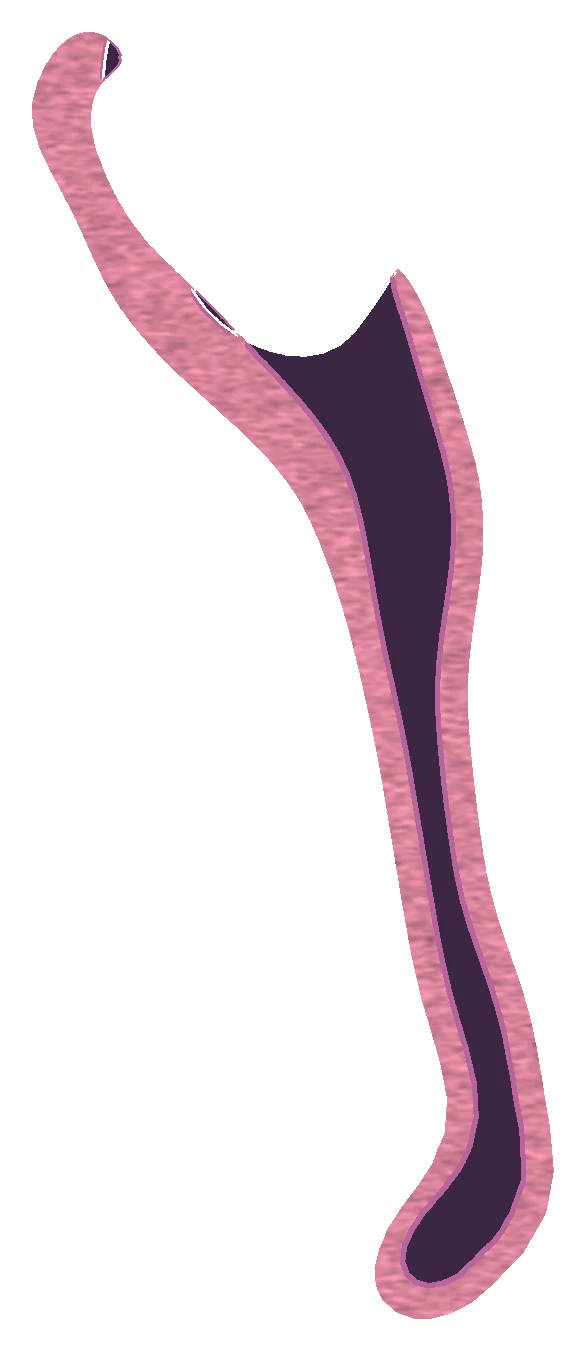
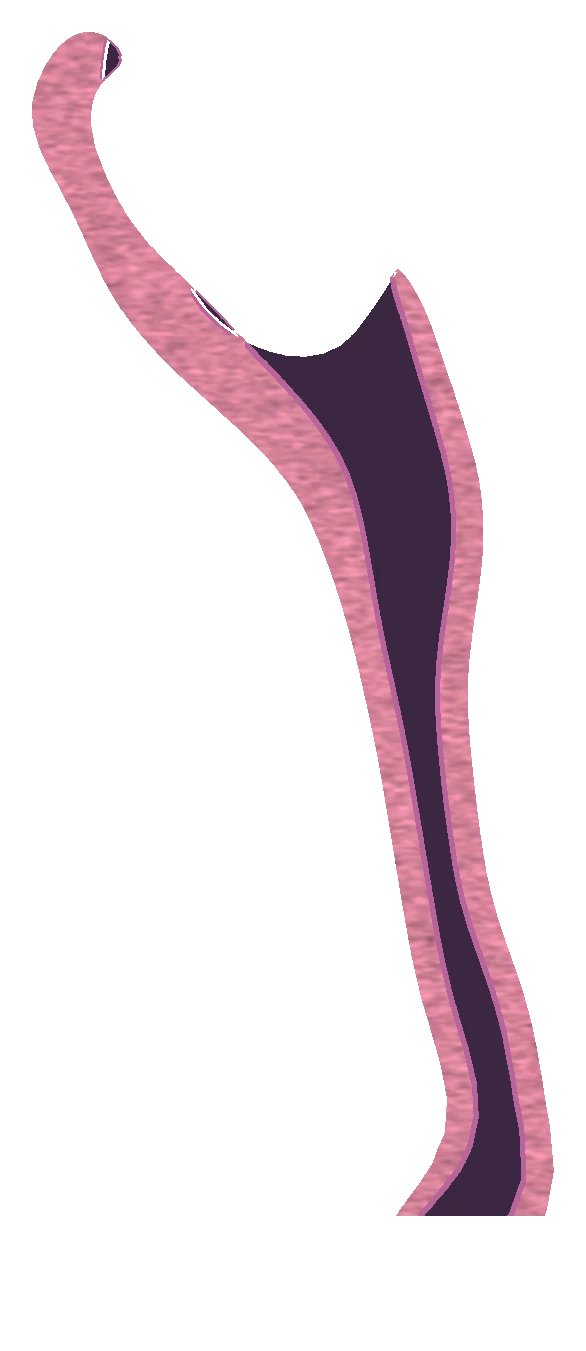
The vagina ends open: cut level 4 mm above the Atlas's closed end, in the 3D and its cut face

Changed region(s): [[0.6143, 0.9016, 0.9215, 0.9948]]

diff --git a/js/cell3d.js b/js/cell3d.js
@@ -26,7 +26,7 @@ import { GLTFLoader } from './vendor/three/examples/jsm/loaders/GLTFLoader.js?v=
 import { OrbitControls } from './vendor/three/examples/jsm/controls/OrbitControls.js?v=0.185.1';
 import { MeshoptDecoder } from './vendor/three/examples/jsm/libs/meshopt_decoder.module.js?v=0.185.1';
 import { mergeVertices } from './vendor/three/examples/jsm/utils/BufferGeometryUtils.js?v=0.185.1';
-import { build as buildTissue } from './tissue3d.js?v=1791095185';
+import { build as buildTissue } from './tissue3d.js?v=1791095888';
 
 export const LEVELS = ['organism', 'system', 'organ', 'tissue', 'cell', 'inside', 'molecules'];
 const GROUP = { organism: 'body', system: 'body', organ: 'body', tissue: 'tissue', cell: 'cell', inside: 'inside', molecules: 'mol' };
@@ -294,9 +294,13 @@ export async function mount(el, opts = {}) {
   let knifeOff = 1;                              // metres beyond the cut; 1 = no cut
   // (always on, parked a metre away when there is no cut: switching it off and on would rebuild the shaders)
   for (const id in bodyMat) if (id !== 'skin') bodyMat[id].clippingPlanes = [knife];
+  // the vagina ends open, level, a little above the Atlas's closed end (build_section.py open_y)
+  const vagEnd = new THREE.Plane();
+  if (SEC.vagina && SEC.vagina.open_y != null && bodyMat.vagina) bodyMat.vagina.clippingPlanes = [knife, vagEnd];
   function setKnife(off) {
     knifeOff = off;
     knife.set(new THREE.Vector3(-1, 0, 0), SEC.x + off).applyMatrix4(F('body'));
+    vagEnd.set(new THREE.Vector3(0, 1, 0), -(SEC.vagina && SEC.vagina.open_y != null ? SEC.vagina.open_y : -9)).applyMatrix4(F('body'));
   }
   // The peel: the knife is put at the cut all at once (with the cut face drawn), and the part on the reader's side
   // is a copy of each organ, clipped the other way, that lifts a little away and fades out. (The knife used to sweep
@@ -311,7 +315,7 @@ export async function mount(el, opts = {}) {
     body.scene.traverse(o => {
       if (!o.isMesh || o.userData.bodyId === 'skin' || !bodyMat[o.userData.bodyId] || o === skinPre || o === skinIn) return;
       const id = o.userData.bodyId;
-      peelMat[id] ||= new THREE.MeshLambertMaterial({ color: bodyMat[id].color, transparent: true, depthWrite: false, clippingPlanes: [knifeOpp] });
+      peelMat[id] ||= new THREE.MeshLambertMaterial({ color: bodyMat[id].color, transparent: true, depthWrite: false, clippingPlanes: id === 'vagina' ? [knifeOpp, vagEnd] : [knifeOpp] });
       const t = new THREE.Mesh(o.geometry, peelMat[id]);
       t.matrixAutoUpdate = false; t.matrix.multiplyMatrices(inv, o.matrixWorld);
       t.userData.part = o.userData.part; t.userData.bodyId = id; t.renderOrder = 6;

diff --git a/js/intro.js b/js/intro.js
@@ -2,7 +2,7 @@
    left shows how big the view is; the caption says what each level is, in the words the exam uses.
    Each level waits for the reader: nothing moves on until a button is pressed. The film of Eric Betzig
    appears, and plays, only when the reader reaches the cell. */
-import { mount, PARTS, LEVELS, importRetry } from './cell3d.js?v=1791095185';
+import { mount, PARTS, LEVELS, importRetry } from './cell3d.js?v=1791095888';
 const VERSION = new URL(import.meta.url).searchParams.get('v') || '';   // (the page's stamp: index.html loads intro.js?v=…)
 
 const $ = (s, el = document) => el.querySelector(s);
@@ -278,7 +278,7 @@ async function openDiagram() {
   if (demo) { demo.restart(); return; }
   if (demoLoading) return;
   const box = $('#mitoDemo');
-  demoLoading = importRetry('./mitodemo.js?v=1791095185').then(m => m.start(box, { v: VERSION })).then(d => {
+  demoLoading = importRetry('./mitodemo.js?v=1791095888').then(m => m.start(box, { v: VERSION })).then(d => {
     demo = d;
     $('.md__next', box).disabled = false;
     $('.md__next', box).addEventListener('click', () => demo.next());
@@ -507,7 +507,7 @@ async function start() {
   });
   try {
     const Q = new URLSearchParams(location.search);
-    cell = await mount(gl, { v: '1791095185', test: Q.get('test') === '1',
+    cell = await mount(gl, { v: '1791095888', test: Q.get('test') === '1',
       samples: Q.has('msaa') ? Number(Q.get('msaa')) : undefined, dprCap: Q.has('dpr') ? Number(Q.get('dpr')) : undefined, depthUint: Q.get('depth') === 'u', notags: Q.get('notags') === '1' });
   } catch (e) {
     console.error(e);

diff --git a/index.html b/index.html
@@ -17,7 +17,7 @@
 <link rel="stylesheet" media="print" onload="this.media='all'"
       href="https://fonts.googleapis.com/css2?family=IBM+Plex+Mono:wght@400;500&family=Inter:wght@400;500;600;700&display=swap">
 <noscript><link rel="stylesheet" href="https://fonts.googleapis.com/css2?family=IBM+Plex+Mono:wght@400;500&family=Inter:wght@400;500;600;700&display=swap"></noscript>
-<link rel="stylesheet" href="css/app.css?v=1791095185">
+<link rel="stylesheet" href="css/app.css?v=1791095888">
 </head>
 <body>
 <main class="zoom is-loading" id="zoom">
@@ -223,7 +223,7 @@
   <p class="fineprint">Something wrong, or a suggestion? Please contact me: <a href="mailto:dmompelriera@nlcsjeju.kr">dmompelriera@nlcsjeju.kr</a>. Checked against the Cambridge IGCSE Biology 0610 syllabus for 2026–2028.</p>
 </dialog>
 
-<script src="js/topics.js?v=1791095185"></script>
-<script type="module" src="js/intro.js?v=1791095185"></script>
+<script src="js/topics.js?v=1791095888"></script>
+<script type="module" src="js/intro.js?v=1791095888"></script>
 </body>
 </html>

diff --git a/tools/model-build/build_section.py b/tools/model-build/build_section.py
@@ -309,7 +309,13 @@ def vagina_face():
     lin = wall_v & (d_lum < 0.35)                                                   # the lining, on the canal side
     img_v[..., :3][lin] = LINING_V[None]
     img_v[..., :3][lumen_v] = LUMEN[None]
-    img_v[..., 3] = ((wall_v | lumen_v) * 255).astype(np.float32)
+    # the Atlas closes the vagina's lower end; it opens to the outside: the face (and, in the page, the 3D) ends level
+    # 4 mm above the closed end, so the canal runs out open (Daniel, 4 Oct)
+    open_y = float(np.nonzero(lumen_v)[0].max())                                     # the lowest row of the canal
+    open_y = hi_v[0] - (open_y * PXV) + 0.004                                         # body y, metres
+    rowy = hi_v[0] - np.arange(Hv) * PXV
+    keep = (rowy >= open_y)[:, None]
+    img_v[..., 3] = ((wall_v | lumen_v) & keep) * 255.0
     Image.fromarray(np.clip(img_v, 0, 255).astype(np.uint8), "RGBA").save(OUT + "section-vagina.webp", quality=88, method=6)
     def tbv(r, c):
         return [X, float(hi_v[0] - r * PXV), float(lo_v[1] + c * PXV)]
@@ -319,7 +325,7 @@ def vagina_face():
     dw[rows < Hv * 0.35] = 0
     r, c = np.unravel_index(np.argmax(dw), dw.shape)
     print(f"vagina face {Wv} x {Hv} px ({Wv * PXV * 1000:.0f} x {Hv * PXV * 1000:.0f} mm); wall px {int(wall_v.sum())}, canal px {int(lumen_v.sum())}")
-    return {"corners": [tbv(0, 0), tbv(0, Wv), tbv(Hv, Wv), tbv(Hv, 0)], "px_m": PXV, "size": [Wv, Hv], "label": tbv(r, c)}
+    return {"corners": [tbv(0, 0), tbv(0, Wv), tbv(Hv, Wv), tbv(Hv, 0)], "px_m": PXV, "size": [Wv, Hv], "label": tbv(r, c), "open_y": round(open_y, 5)}
 
 
 meta = {
